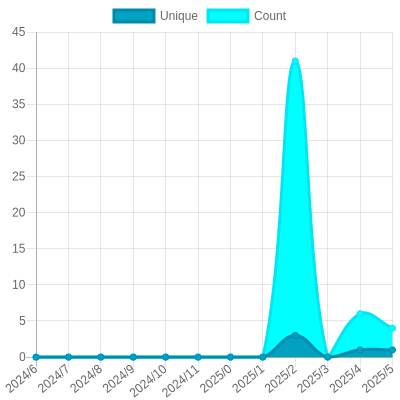
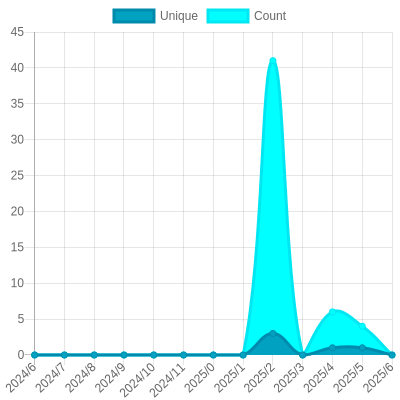
Update views

Changed region(s): [[0.03, 0.09, 0.99, 1.0], [0.03, 0.06, 0.06, 0.09]]

diff --git a/README.md b/README.md
@@ -26,7 +26,7 @@ The project created and maintained by [gayanvoice](https://github.com/gayanvoice
 			</a>
 		</td>
 		<td>
-			2024/6/29 1:04 AM UTC
+			2024/6/30 1:11 AM UTC
 		</td>
 		<td>
 			5
@@ -37,7 +37,7 @@ The project created and maintained by [gayanvoice](https://github.com/gayanvoice
 	</tr>
 </table>
 
-<small><i>Last updated on 2024/7/1 6:19 PM UTC</i></small>
+<small><i>Last updated on 2024/7/2 1:06 AM UTC</i></small>
 
 ## ✂Copy and 📋 Paste
 ### Total Views Badge

diff --git a/readme/766914683/year.md b/readme/766914683/year.md
@@ -20,6 +20,17 @@
 	</tr>
 	<tr>
 		<td>
+			<code>2024/7/1</code>
+		</td>
+		<td>
+			<code>0</code>
+		</td>
+		<td>
+			<code>0</code>
+		</td>
+	</tr>
+	<tr>
+		<td>
 			<code>2024/6/1</code>
 		</td>
 		<td>
@@ -153,7 +164,7 @@
 </table>
 
 </details>
-<small><i>Last updated on 2024/7/1 6:19 PM UTC</i></small>
+<small><i>Last updated on 2024/7/2 1:06 AM UTC</i></small>
 
 ## ✂Copy and 📋 Paste
 ### SVG Badge
